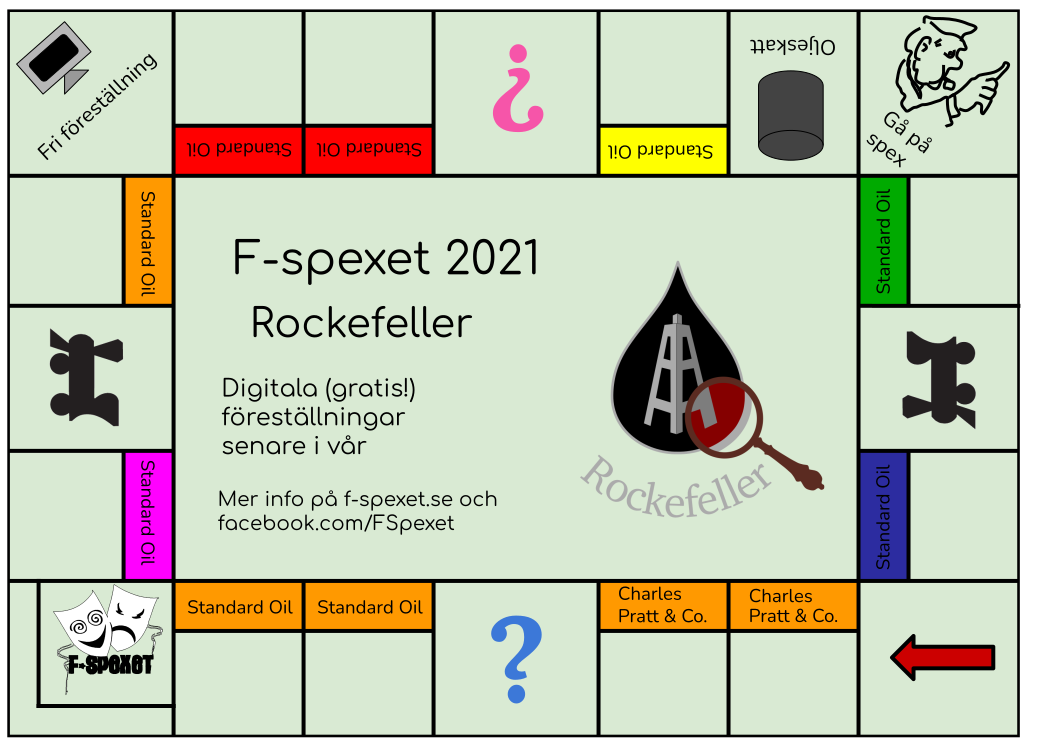
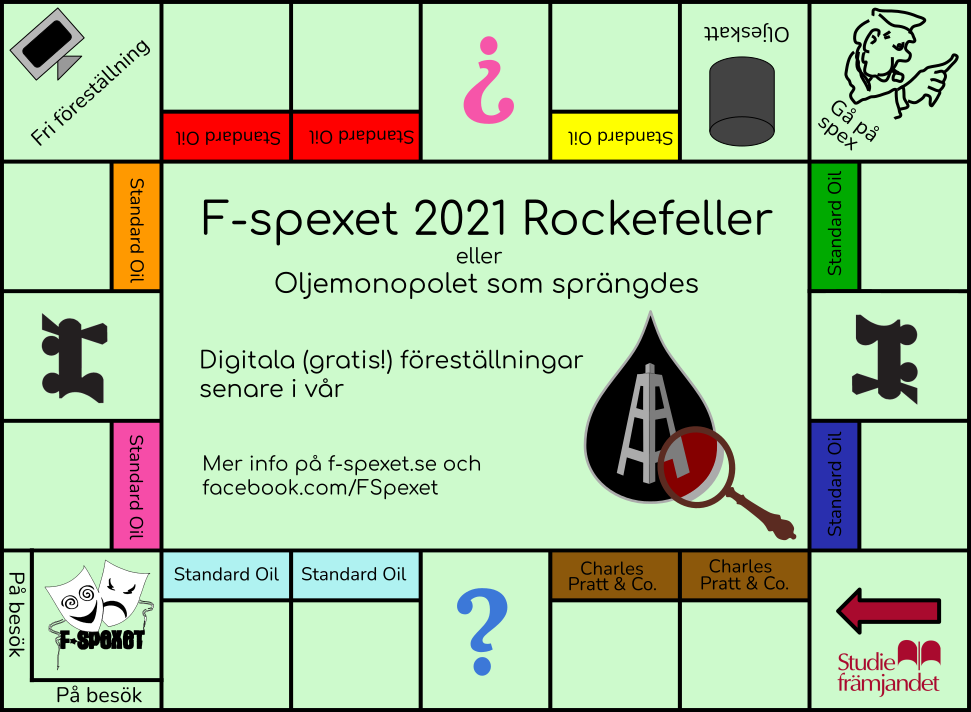
Temasläppsversion

diff --git a/src/components/News.vue b/src/components/News.vue
@@ -5,7 +5,10 @@
     <div id="temaslapp">
       <h2> Temasläpp! </h2>
         <p>
-          Hurra! F-spexet presenterar iår spexet Rockefeller, här får ni en förtitt på årets affisch:
+          Hurra! F-spexet presenterar iår spexet Rockefeller:
+        </p>
+        <p>
+          John D Rockefeller har ägnat hela sin karriär åt att bygga sitt oljemonopol, förhindra konkurrens på den fria marknaden och att få sina barn att bli precis som han. Men en dag krossas den kapitalistiska idyllen plötsligt. Följ med på en hissnande mordgåta i tre akter, med tillhörande menyförslag för att förhöja upplevelsen! Föreställningsdatum släpps i april.
         </p>
         <div id="affisch">
           <img src="../assets/affisch.png" class="big_image" alt>
@@ -42,16 +45,20 @@ Lösningen ger titeln av årets uppsättning av F-spexet. Maila din gissning til
           då, och vi kan inte med gott samvete sätta upp några höstföreställningar heller. 
           Istället avslutar vi vårt verksamhetsår utan föreställningar och lägger Johannes 
           Kepler på hyllan tills vidare.
-        </p><h3>
+        </p>
+        <h3>
           Betyder det här att allt vanligt spexande är lagt på is?
-        </h3><p> 
+        </h3>
+        <p> 
           Självklart inte! Vi siktar på en nystart med ett nytt manus, som tills vidare går 
           under arbetstemat <a>Totally Pink Batman</a>. Så länge inte pandemin stoppar oss 
           sätts det upp någon gång under våren, med extra taggade spexare som sett fram i 
           över ett år emot att få ha föreställningar. 
-        </p><h3>
+        </p>
+        <h3>
           Vill du inte bara se vårt nya spex, utan även vara med och sätta upp det? 
-        </h3><p>
+        </h3>
+        <p>
           Håll utkik efter information om aspningsaktiviteter, och gå med i spexet. Vi vill 
           gärna spexa med just DIG!
         </p><p>

diff --git a/src/components/Main.vue b/src/components/Main.vue
@@ -60,7 +60,7 @@ body {
   background: black;
 }
 .main {
-  background: url(../assets/background_new_modified.png);
+  background: url(../assets/background_aragon.png);
   background-repeat: no-repeat;
   background-size: cover;
   padding: 10px 30px 10px 30px;
@@ -95,7 +95,7 @@ p {
   margin-bottom: 15px;
 }
 
-h0 {
+h0 { /* Main header font */
   color: #A4A4A4; <!-- hex #RRGGBB -->
   font-family: Josefin, Futura, 'PakType Tehreer', sans;
   font-size: 35px;
@@ -103,32 +103,32 @@ h0 {
   font-style: normal;
 }
 
-h1 {
+h1 { /* Header 1 font */
   font-variant: small-caps;
   font-size: 48px;
 }
 
-h2 {
+h2 { /* Header 2 font */
   font-size: 32px;
   font-variant: small-caps;
 }
 
-h3 {
+h3 { /* Header 3 font */
   font-size: 26px;
   font-style: italic;
   margin-top: 25px;
   margin-bottom: 5px;
 }
 
-h4 {
+h4 { /* Header 4 font */
   font-size: 24px;
   font-style: italic;
   margin-top: 0px;
   margin-bottom: 0px;
 }
 
-a {
-  color: pink;
+a { /* Link colour (in general text of type a) */
+  color: #20206A; 
   font-weight: normal;
   font-style: italic;
   font-size: 21px;

diff --git a/src/components/AboutUsDefault.vue b/src/components/AboutUsDefault.vue
@@ -45,7 +45,7 @@
     <hr>
     <h2>Poster i F-spexet</h2>
     <p>
-      Undrat vilka poster eller grupper som finns i f-spexet, eller vad de gör?
+      Undrat vilka poster eller grupper som finns i F-spexet, eller vad de gör?
       Kanske funderar du på att vara med själv i nästa års spex? Ta då en titt på
       <router-link to="/about-us/groups">poster i F-spexet.</router-link>
     </p>
@@ -53,7 +53,7 @@
     <hr>
       <h2>Tidigare spex</h2>
       <p>
-        2021 blir ju inte den första gången f-spexet framträder, vi är ju ändå 16 år gamla det här året.
+        2021 blir ju inte den första gången F-spexet framträder, vi är ju ändå 16 år gamla det här året.
         Om du är intresserad av vad som spexats förut så kan du läsa lite på våra
         <router-link to="/about-us/history">tidigare spex.</router-link>
       </p>
